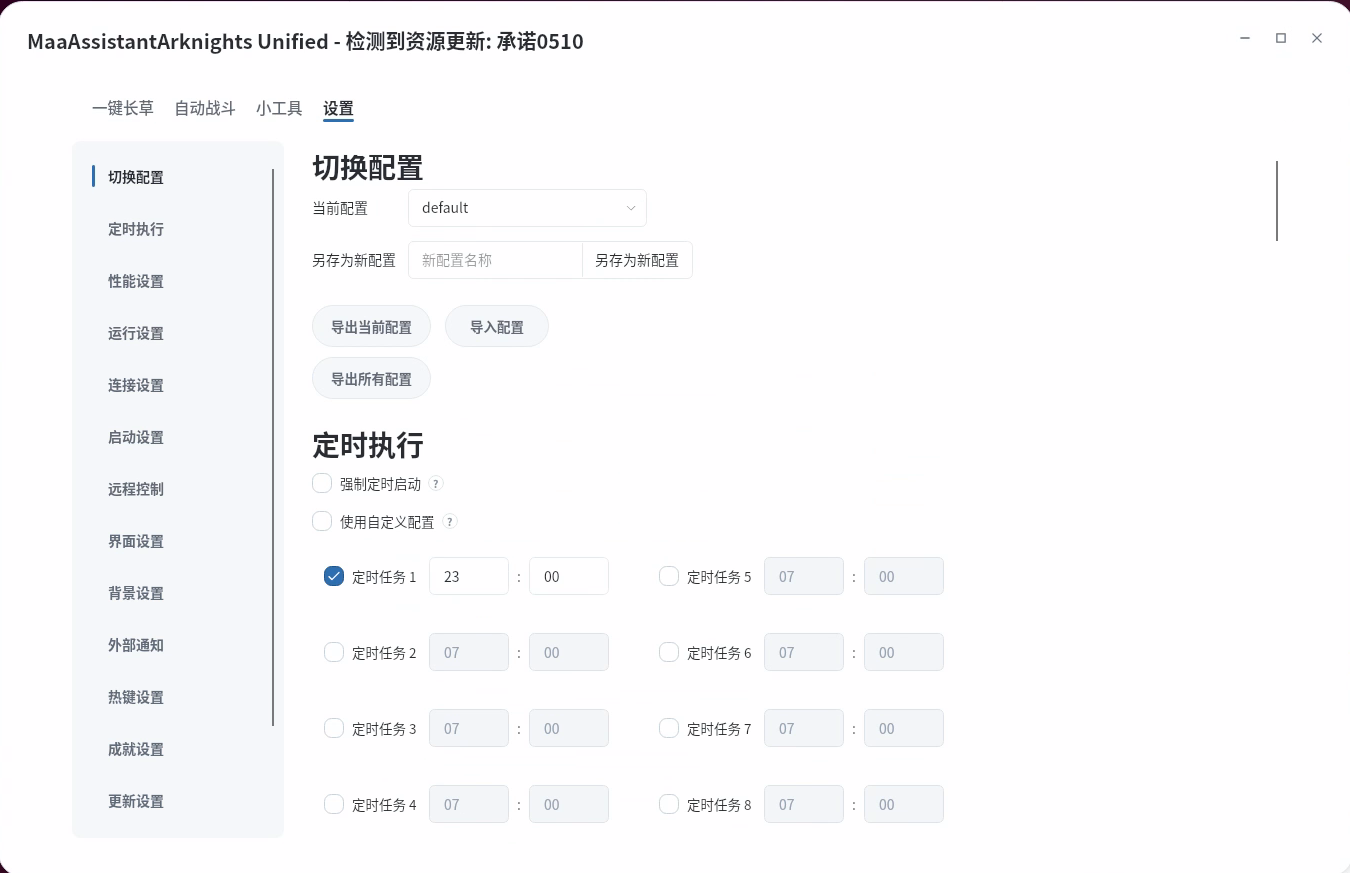
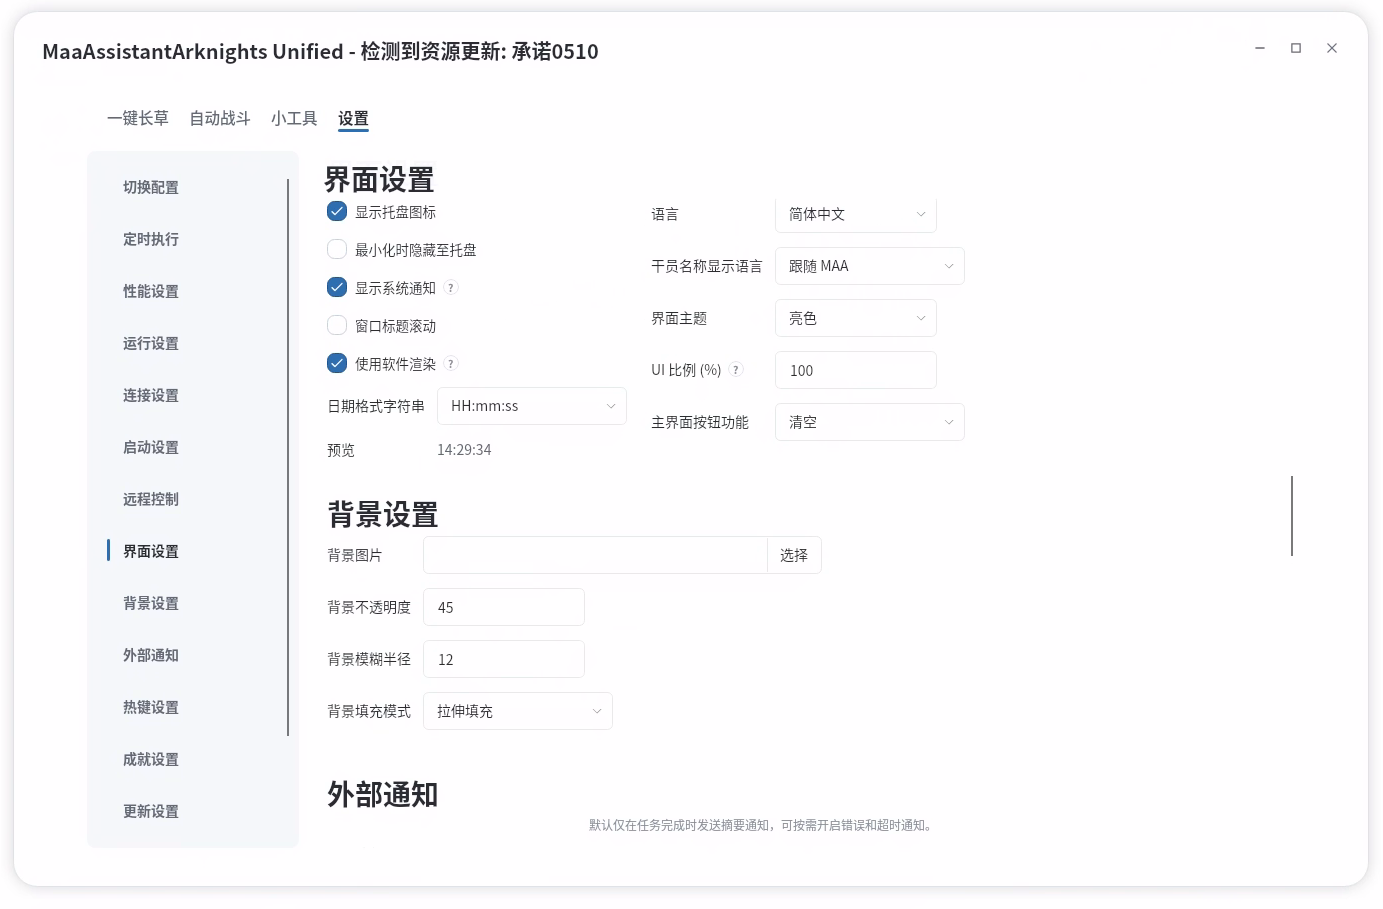
feat(Avalonia): 更新开发文档和展示截图

diff --git a/Docs/zh-cn/develop/development.md b/Docs/zh-cn/develop/development.md
@@ -16,6 +16,46 @@
 
 日常联调建议始终从主仓跑，不要只在 `src/MAAUnified` 里单独看托管前端。
 
+按用途分两种情况：
+
+1. 只需要本地 build、运行、联调：直接 clone 官方 `MaaAssistantArknights` 即可。
+2. 还需要提交改动、发 PR：先 fork `MaaAssistantArknights`，再从自己的 fork clone，并保留 `origin` / `upstream` 两个远端。
+
+只需要本地 build 时，可直接使用官方仓库：
+
+```bash
+git clone --recurse-submodules -b dev-v2 --single-branch https://github.com/MaaAssistantArknights/MaaAssistantArknights.git
+cd MaaAssistantArknights
+```
+
+准备贡献时，推荐从自己的 fork clone。下面的用户名和仓库名请按你自己的 GitHub 信息替换：
+
+```bash
+git clone --recurse-submodules -b dev-v2 --single-branch https://github.com/<GitHub 用户名>/<fork 仓库名>.git
+cd MaaAssistantArknights
+git remote add upstream https://github.com/MaaAssistantArknights/MaaAssistantArknights.git
+git remote -v
+```
+
+预期主仓远端为：
+
+```text
+origin    https://github.com/<你的 GitHub 用户名>/<你的 MaaAssistantArknights fork 仓库名>.git (fetch)
+origin    https://github.com/<你的 GitHub 用户名>/<你的 MaaAssistantArknights fork 仓库名>.git (push)
+upstream  https://github.com/MaaAssistantArknights/MaaAssistantArknights.git (fetch)
+upstream  https://github.com/MaaAssistantArknights/MaaAssistantArknights.git (push)
+```
+
+如果你已经 clone 了仓库，也可以直接补齐远端：
+
+```bash
+git remote set-url origin https://github.com/<你的 GitHub 用户名>/<你的 MaaAssistantArknights fork 仓库名>.git
+git remote add upstream https://github.com/MaaAssistantArknights/MaaAssistantArknights.git
+git remote -v
+```
+
+如果 `upstream` 已经存在，就不用重复添加。
+
 首次同步子模块：
 
 ```bash